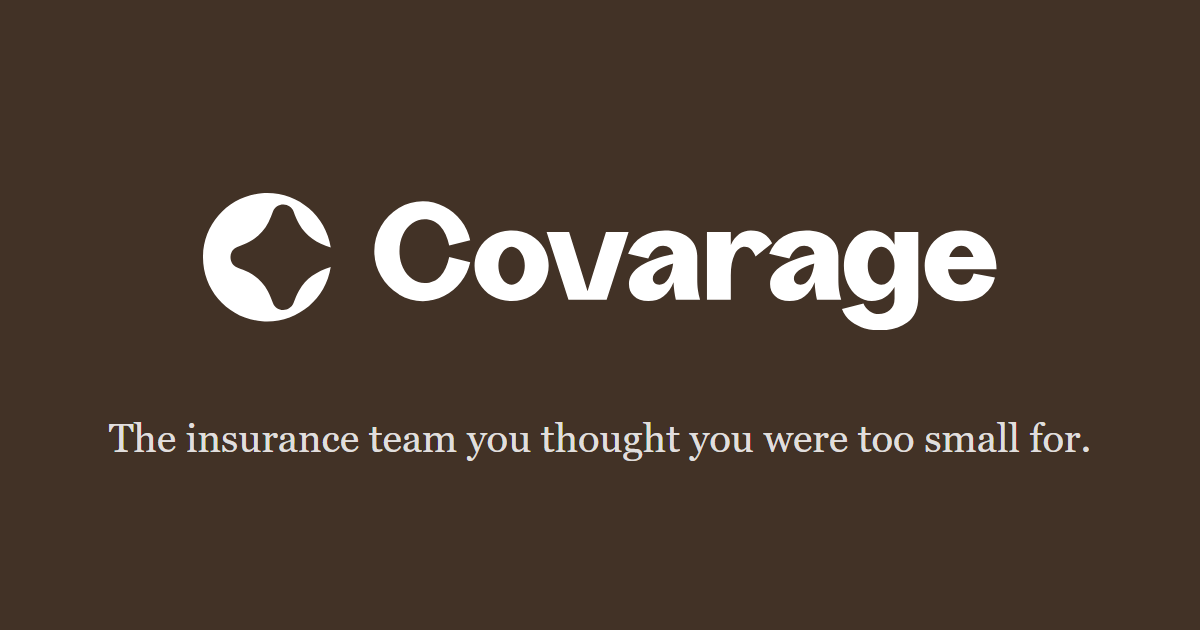
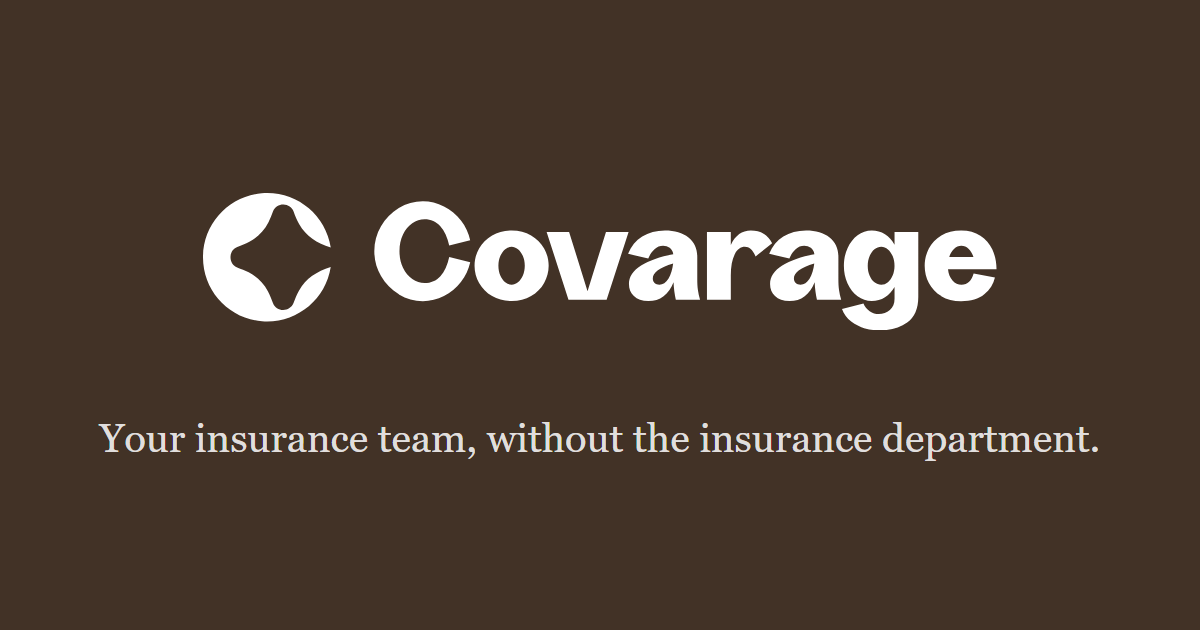
Lander: the hero H2 swaps to the ruled tagline; CD's regenerated share card installed (KONG 23:5x, Rev 3e row 27 + his 'rebuild sharecard' order)
Hero now reads headline + brand promise: the F500 H1 over 'Your insurance
team, without the insurance department.' The old H2 is retired by Kong's own
hand (his locked 2a pick, his strike). Card re-installed byte-verbatim from
CD's regen (md5 b0d91f20, replaces c157dc90 whose sub-line was the old H2).

Changed region(s): [[0.0617, 0.6635, 0.925, 0.7238]]

diff --git a/src/pages/landing/Hero.tsx b/src/pages/landing/Hero.tsx
@@ -25,7 +25,7 @@ export default function Hero() {
               Fortune 500 companies have a team for insurance. Now you do.
             </h1>
             <h2 className="m-0 mb-3 font-serif text-[21px]/[1.25] tracking-[-0.5px] text-balance text-primary lg:mb-[18px] lg:text-[26px]/[1.2] lg:tracking-[-0.6px]">
-              The insurance team you thought you were too small for.
+              Your insurance team, without the insurance department.
             </h2>
             <p className="m-0 max-w-[46ch] text-base/[1.5] text-text-primary lg:mb-[30px] lg:text-lg">
               A named adviser who knows your company, a review at every renewal, and someone who chases so you never have to.
